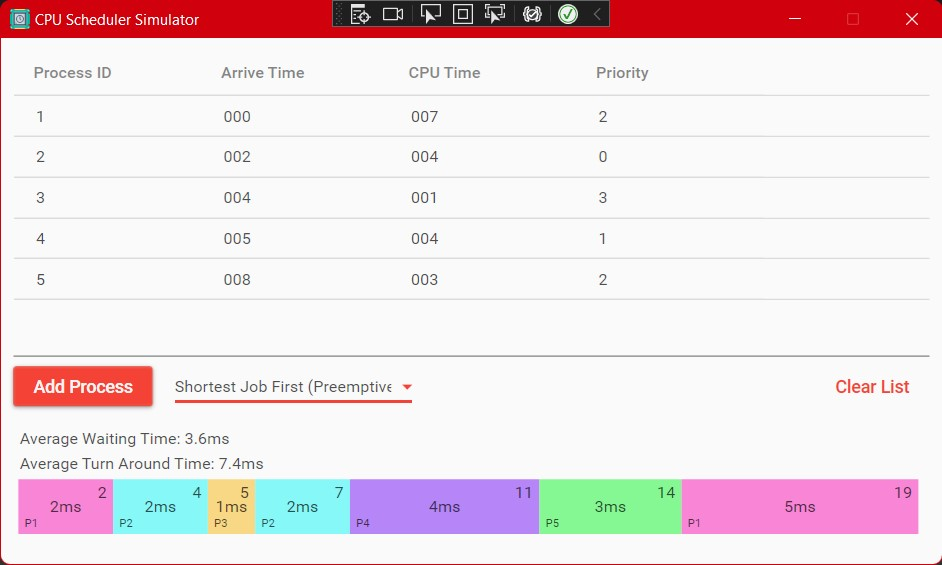
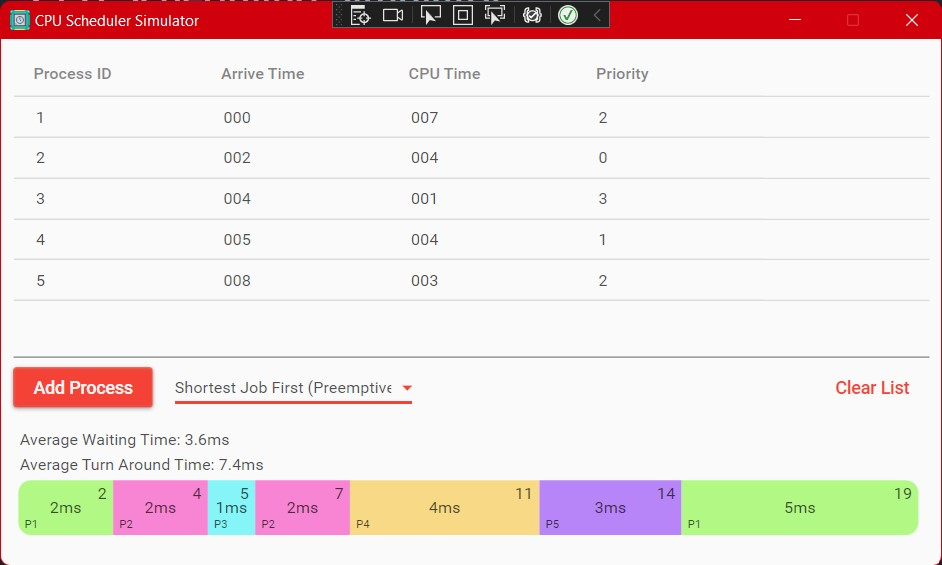
Update chart

diff --git a/CPUScheduling Sim/Chart.cs b/CPUScheduling Sim/Chart.cs
@@ -43,14 +43,19 @@ namespace CPUScheduling_Sim
                     grids.Add(BlankBlock(panel.Height, width));
                 }
 
-                Rectangle rectangle = new Rectangle();
+                Border block = new Border();
 
-                rectangle.Height = panel.Height;
-                rectangle.Width = (process.CPUTime.TotalMilliseconds / totalTime) * (panel.Width - 5);
+                block.Height = panel.Height;
+                block.Width = (process.CPUTime.TotalMilliseconds / totalTime) * (panel.Width - 5);
                 offset = thisOffset;
 
                 GenerateColors();
-                rectangle.Fill = new SolidColorBrush(chartColors[process.PID]);
+                block.Background = new SolidColorBrush(chartColors[process.PID]);
+
+                if (grids.Count == 0)
+                    block.CornerRadius = new CornerRadius(10, 0, 0, 10);
+                else if(i == processes.Count - 1)
+                    block.CornerRadius = new CornerRadius(0, 10, 10, 0);
 
 
                 TextBlock cpuTime = new TextBlock();
@@ -74,7 +79,7 @@ namespace CPUScheduling_Sim
                 pid.Text = $"P{process.PID}";
                 pid.FontSize = 9;
 
-                grid.Children.Add(rectangle);
+                grid.Children.Add(block);
                 grid.Children.Add(cpuTime);
                 grid.Children.Add(ct);
                 grid.Children.Add(pid);
